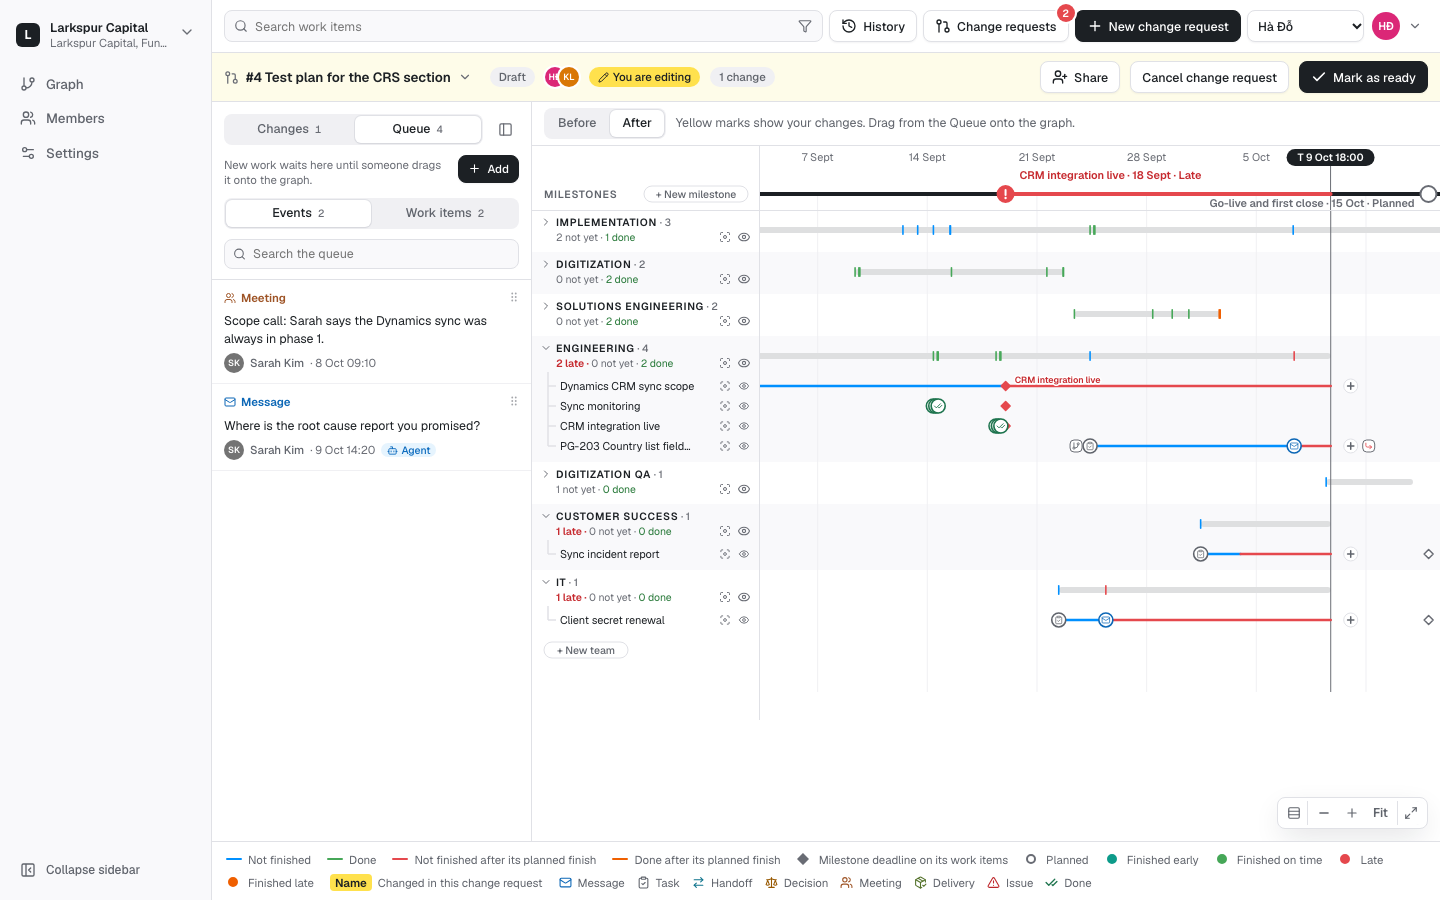
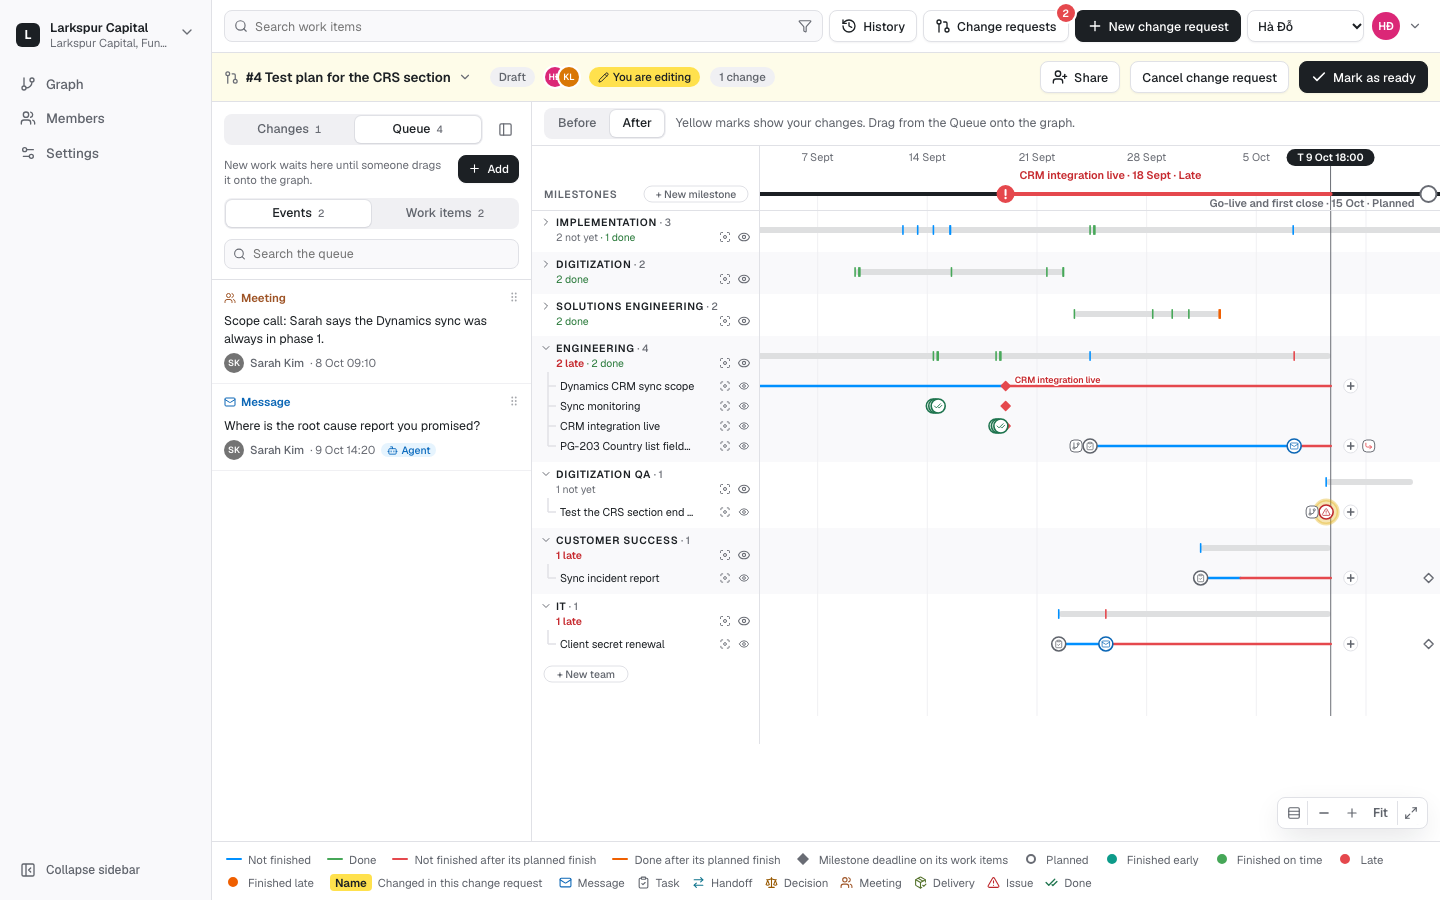
fix: docs and screenshots for the summary row counts, the change mark and the team opening rules

diff --git a/docs/design/design-system.html b/docs/design/design-system.html
@@ -1027,7 +1027,7 @@ Handed over to Digitization · received in PG-202 DealCloud mapping for CRS fiel
     ['Row lines', spec(260, 70, '<line class="seg" x1="10" x2="120" y1="16" y2="16" style="stroke:var(--route)"/><line class="seg" x1="120" x2="200" y1="16" y2="16" style="stroke:var(--danger)"/><line class="seg" x1="10" x2="150" y1="40" y2="40" style="stroke:var(--proceed)"/><line class="seg" x1="150" x2="200" y1="40" y2="40" style="stroke:var(--caution)"/><line class="wait-line" x1="10" x2="200" y1="62" y2="62"/><text class="wait-text" x="18" y="56">No events yet</text>'), 'Open blue, then red after the planned finish. Done green, then amber when late. A row with no events: a faint grey line.'],
     ['Events and stacks', spec(260, 50, evg('message', 30, 25, 'route') + evg('meeting', 90, 25, 'route', { n: 3 }) + evg('issue', 150, 25, 'danger', { changed: true }) + evg('done', 210, 25, 'proceed')), 'A radius-10 circle in the kind colour with the kind icon; the row line keeps the status colour. A stack shows up to 2 circles behind in an 18 % tint of the top kind. A changed event gets a yellow ring.'],
     ['Row height', spec(260, 92, (function () { var h = ''; [[14, 10, 13], [44, 7, 9], [70, 3, 0]].forEach(function (r) { h += '<line class="seg" x1="10" x2="240" y1="' + r[0] + '" y2="' + r[0] + '" style="stroke:var(--route);stroke-width:' + (r[1] > 5 ? (r[1] > 8 ? 3 : 2.5) : 2) + '"/>'; ['task', 'meeting', 'done'].forEach(function (k, i) { var x = 50 + i * 70, c = 'var(--k-' + k + ')'; h += r[2] ? '<g class="act" transform="translate(' + x + ' ' + r[0] + ')"><circle class="bg" r="' + r[1] + '" style="stroke:' + c + '"/><g style="color:' + c + '">' + inner(KIND[k], 0, 0, r[2]) + '</g></g>' : '<circle cx="' + x + '" cy="' + r[0] + '" r="3" style="fill:' + c + '"/>'; }); }); return h + '<text class="note" x="10" y="88">Comfortable 32 · Compact 20 · Dense 12</text>'; })()), 'Three row heights in the view menu. Compact is the default. At Dense an event is a dot in its kind colour.'],
-    ['Team summary row', spec(260, 44, '<rect x="0" y="0" width="260" height="40" style="fill:var(--sunk)"/><path d="M10 9 l4 4 l-4 4" style="fill:none;stroke:var(--ink-3);stroke-width:1.6;stroke-linecap:round;stroke-linejoin:round"/><text class="lane-name" x="22" y="16" style="fill:var(--ink)">ENGINEERING<tspan style="fill:var(--ink-3);letter-spacing:0"> · 4</tspan></text><text x="22" y="31" style="font-size:10.5px;fill:var(--ink-3)"><tspan style="fill:var(--danger-ink);font-weight:600">2 late</tspan> · 0 not yet · <tspan style="fill:var(--proceed-ink)">2 done</tspan></text><rect x="150" y="17" width="100" height="6" rx="3" style="fill:color-mix(in srgb, var(--ink-3) 22%, var(--panel))"/><rect x="170" y="15" width="1.6" height="10" style="fill:var(--proceed)"/><rect x="236" y="15" width="1.6" height="10" style="fill:var(--danger)"/>'), 'Chevron, name and count, late (only when not zero), not yet and done, a bar over the time of the shown work and a tick per event. A click, Enter or Space collapses or opens the team.'],
+    ['Team summary row', spec(260, 44, '<rect x="0" y="0" width="260" height="40" style="fill:var(--sunk)"/><path d="M10 9 l4 4 l-4 4" style="fill:none;stroke:var(--ink-3);stroke-width:1.6;stroke-linecap:round;stroke-linejoin:round"/><text class="lane-name" x="22" y="16" style="fill:var(--ink)">ENGINEERING<tspan style="fill:var(--ink-3);letter-spacing:0"> · 4</tspan></text><text x="22" y="31" style="font-size:10.5px;fill:var(--ink-3)"><tspan style="fill:var(--danger-ink);font-weight:600">2 late</tspan> · <tspan style="fill:var(--proceed-ink)">2 done</tspan></text><rect x="150" y="17" width="100" height="6" rx="3" style="fill:color-mix(in srgb, var(--ink-3) 22%, var(--panel))"/><rect x="170" y="15" width="1.6" height="10" style="fill:var(--proceed)"/><rect x="236" y="15" width="1.6" height="10" style="fill:var(--danger)"/>'), 'Chevron, name and count, the counts above zero of late, not yet and done, a bar over the time of the shown work and a tick per event. A click, Enter or Space collapses or opens the team. A collapsed team with a change gets the highlighter on its name.'],
     ['Milestone circles', spec(260, 40, '<g transform="translate(25 20)"><circle class="ms-c" r="8" style="stroke:var(--ink-3);fill:var(--panel)"/></g><g transform="translate(75 20)"><circle class="ms-c" r="8" style="stroke:var(--teal);fill:var(--teal)"/><path class="ms-i" d="M-3.5 0 l2.5 2.5 l4.5 -5"/></g><g transform="translate(125 20)"><circle class="ms-c" r="8" style="stroke:var(--proceed);fill:var(--proceed)"/><path class="ms-i" d="M-3.5 0 l2.5 2.5 l4.5 -5"/></g><g transform="translate(175 20)"><circle class="ms-c" r="8" style="stroke:var(--danger);fill:var(--danger)"/><path class="ms-i" d="M0 -4 V1"/><circle class="ms-dot" cy="4" r="1.2"/></g><g transform="translate(225 20)"><circle class="ms-c" r="8" style="stroke:var(--caution);fill:var(--caution)"/><path class="ms-i" d="M0 -4 V1"/><circle class="ms-dot" cy="4" r="1.2"/></g>'), 'Planned, Finished early, Finished on time, Late, Finished late. Radius 8; a tick or "!".'],
     ['Milestone line slips', spec(260, 50, '<line class="trunk" x1="10" x2="250" y1="14" y2="14"/><line class="trunk-seg" x1="60" x2="140" y1="14" y2="14" style="stroke:var(--danger)"/><line class="trunk" x1="10" x2="250" y1="38" y2="38"/><line class="trunk-seg" x1="90" x2="160" y1="38" y2="38" style="stroke:var(--teal)"/>'), 'A 4-unit ink line. Red from the date to today while late, amber to the finish when finished late, teal from the finish to the date when early.'],
     ['Deadline diamonds', spec(260, 40, (function () { out = []; diamond(30, 22, 'ink-3', false, false); diamond(80, 22, 'proceed', true, false); diamond(130, 22, 'danger', true, false); diamond(180, 22, 'route', true, true, ''); diamond(220, 22, 'caution', true, false); return out.join(''); })()), 'At noon of the milestone date on every member row. Planned is an outline. A moved date gets a yellow stroke.'],

diff --git a/docs/superpowers/specs/2026-10-16-event-tracker-design.md b/docs/superpowers/specs/2026-10-16-event-tracker-design.md
@@ -17,7 +17,7 @@ Promise Graph becomes an event tracker for a whole project. It shows what happen
    - Focus: each row has a focus button next to its eye. It shows only that work item and its descendants (children by parent and by "leads from", followed to the end), and every other row and every team without a shown row goes away. Each team head has the same button: a team focus shows the rows of that team and their descendants by the same rules (a team row that comes from another row of the team sits under it), and the Focus panel shows the team and its rows as a tree. The pressed focus button is a filled square in the `--focus` token, never a status colour. Hidden rows inside the focus stay hidden. While focused, a Focus panel on the right lists the parent of the focused item (a click focuses the parent instead) and the focused item with its descendants as a tree (a click scrolls to the row and flashes it, and shows it again when it is hidden). Focus on a hidden item shows it again. Leave focus in the panel, Esc, the focus button of the focused row (it is pressed while focused), or hiding the focused row or its team ends the focus, and so does a view where the item does not exist. A search pick or a details link to a row outside the focus ends the focus first. Focus is a view state only: it is not stored and does not change the hidden lists.
    - Handoff mark: a "leads from" link draws no line, inside one team or across teams. Each source row gets one mark for all the work items that lead from it. When the source has a visible Handoff event on the graph, the icon of its latest Handoff event (or of the stack that holds it) is the mark itself: one symbol, with no separate badge, and a small receiver count on its ring when there are several receivers. The source then counts as handed over. Without one, the mark sits after the finish, or after the T line while the source is open, and no other mark sits next to Done. Near the right edge the mark goes left of that point. The mark is a corner arrow that points up or down to the receivers, or a two-way arrow when they are on both sides, and it shows their count when there are several. A receiving item outside the window is not on the mark. Hover and keyboard focus show one line per receiver: "Handed over to <team> · received in <work item>" ("Hands over to <team> when done · …" while the source is open). With one receiver, a click, Enter or Space shows the receiving row again if it is hidden, outside the focus or filtered out, then zooms, scrolls to it and flashes it, as a search pick does. With several, the click opens a small list ("Handed over to", each receiver with its team); a pick does the same for that receiver, and Esc closes the list. On a Handoff icon, hover and focus also show the event line under the receivers. A stack that holds the Handoff event always opens the list, and the list ends with "Show the N events here", which opens the stack pop.
    - Row height (owner ruling 18 Oct, V1): the view menu at the left of the zoom bar (the rows icon, "Row height and teams") offers Comfortable (32-unit rows, as before), Compact (20, the default) and Dense (12). At a lower level the row label, event circles and icons, deadline diamonds, handoff marks, chips, the + button and the eye and focus buttons get smaller, so nothing overlaps or is cut; every target keeps a hit area of at least 12 units. At Dense an event is a filled dot in its kind colour with no icon (hover, focus and click work as before), a stack still shows its circles behind, the waiting text moves to a tooltip, the Handoff icon drops its receiver count (the tooltip and the list keep the receivers), and the milestone name sits on the row centre only where the row has no line. The milestone circles on the pinned milestone line keep their size, as that band does not change height. The app keeps the level per person in `localStorage` (`promise-graph:row-height:v1:<user>`); without storage the page starts at Compact.
-   - Collapsible teams (owner ruling 18 Oct, V3): the head of each team is a summary row: a chevron, the team name and its count of shown work items, "N late · N not yet · N done" (late only when not zero, in the danger ink; done in the proceed ink), and on the time line a quiet bar from the earliest start to the latest finish (or T or the planned finish while open) of those work items, with a small tick per event. The focus and eye buttons of the team stay on it. A click, Enter or Space on the summary row opens or collapses the team (`aria-expanded`). A collapsed team shows its summary row only, and its rows take no room. A team with a late work item starts open and the other teams start collapsed; the person's own toggle wins and stays per project in `localStorage` (`promise-graph:team-open:v1:<project>`). Expand all and Collapse all sit in the view menu. While search text, filters or a focus narrow the graph, every team with a shown row is open; a toggle made then lasts until the graph is whole again, and the stored toggles come back. Anything that targets a row inside a collapsed team opens that team first: a search pick, a handoff mark or its list, the links of the details panel (Parent, Leads from, Leads to), a member name in the milestone drawer, View in work item, the Focus panel, a branch chip and Unhide. A work item that a change request places, makes or moves into a team opens that team. A handoff mark keeps its receivers in a collapsed team and names their team; a branch chip says "(in <team>, collapsed)" for a source there.
+   - Collapsible teams (owner ruling 18 Oct, V3): the head of each team is a summary row: a chevron, the team name and its count of shown work items, "N late · N not yet · N done" (only the counts above zero, late in the danger ink and done in the proceed ink; nothing when all are zero), and on the time line a quiet bar from the earliest start to the latest finish (or T or the planned finish while open) of those work items, with a small tick per event. The focus and eye buttons of the team stay on it. A click, Enter or Space on the summary row opens or collapses the team (`aria-expanded`). A team with no shown work items has a plain summary row: no chevron, no button and no toggle. A collapsed team shows its summary row only, and its rows take no room. A team with a late work item starts open, and so does a team that holds a change of the change request on screen (a changed row, event or planned finish); the other teams start collapsed. A collapsed team that holds a change shows its name with the yellow highlighter of decision 8; the person's own toggle wins and stays per project in `localStorage` (`promise-graph:team-open:v1:<project>`). Expand all and Collapse all sit in the view menu. Esc closes the view menu wherever the focus is, and so does a press outside it. While search text, filters or a focus narrow the graph, every team with a shown row is open; a toggle made then lasts until the graph is whole again, and the stored toggles come back. Anything that targets a row inside a collapsed team opens that team first; on a narrowed graph that opening is temporary and stores nothing, while an action that also clears the narrowing (a search pick that clears the only filter, a link that clears the filters or ends the focus) stores it, so the row stays in sight: a search pick, a handoff mark or its list, the links of the details panel (Parent, Leads from, Leads to), a member name in the milestone drawer, View in work item, the Focus panel, a branch chip and Unhide. Every change that targets a work item opens its team: placing, making or moving a work item into a team, adding or attaching an event to it, moving an event to it, and the field changes of the details panel. A handoff mark keeps its receivers in a collapsed team and names their team; a branch chip says "(in <team>, collapsed)" for a source there.
    - Filters: the search box has a filter control with Status (the 5 statuses), Team, Milestone (and "No milestone") and Person (done by or requested by). Values of one kind combine with "or", kinds combine with "and". The typed search text also filters the rows with the same matcher as the result list (title, team and people, case and Vietnamese marks ignored), so the graph and the list show the same hits. A matching row keeps its parents, up to the top, as dimmed context; a team without a shown row goes away, and so does an empty team. Filters combine with hiding and the focus, add no chip for a filtered-out source, and are a view state only (not stored). A chosen team, milestone or person that the current view does not have (for example a team that exists only in a change request, after a switch to Main) does not filter and does not count. The control shows the count of chosen values, the panel shows "N of M work items match" and Clear filters. A search pick clears the typed text; a pick, a handoff mark or a details link to a row that the filters leave out clears the filters.
 4. Queue: events and work items wait in a project Queue until someone drags them onto the graph. People add them with Add; agents add them through MCP. No email or Slack sync.
 5. Drag and drop changes the graph only in a draft change request that the acting member edits. A Queue work item onto a team places it (onto a milestone circle sets its milestone while it waits); a Queue event onto a work item attaches it; a Queue event onto a team opens "New work item" from it; an event up or down moves it to another work item; anything onto the bin hides it (events) or removes it from the Queue (Queue cards). The bin shows only while something is dragged. A work item name onto a milestone circle adds it to that milestone. Every drop has a click alternative (pops and modals). Events sit at their real time in every view (owner ruling 17 Oct, round 7): there is no drag inside the day and no Reset position, and a read-only view starts no drag at all. Events closer than 16 units stack as before, the earlier ones under the later top event. The table `tracker_event_offsets` stays in the database with its old rows, but no route, payload field or screen uses it (round 7 review).

diff --git a/docs/design-system.md b/docs/design-system.md
@@ -269,7 +269,7 @@ Geometry in view-box units (`GEOMETRY` in `src/tracker/layout.ts`): width 1060, 
 
 | Mark | Drawing |
 |---|---|
-| Team summary row | Alternate lanes get a `--sunk` band. The first row of each lane is a button (`aria-expanded`): a chevron (right when collapsed), the team name in 10.5px weight 600 upper case `--ink` with " · N" items in `--ink-3`, and under it "N late · N not yet · N done" in 10.5px `--ink-3`, the late part in `--danger-ink` weight 600 (only when not zero) and the done part in `--proceed-ink`. The focus and eye buttons sit right on that second line. On the time line: a 6-unit bar (a 22 % `--ink-3` tint, radius 3) from the earliest start to the latest finish, or to T or the planned finish while open, and a 1.6 × 10 tick in the status tone for each event. Hover: `--hover`. A collapsed team shows this row only. A neutral `--rule` guide joins the rows of an open team in the label column. |
+| Team summary row | Alternate lanes get a `--sunk` band. The first row of each lane is a button (`aria-expanded`): a chevron (right when collapsed), the team name in 10.5px weight 600 upper case `--ink` with " · N" items in `--ink-3`, and under it the counts above zero of "N late · N not yet · N done" in 10.5px `--ink-3`, the late part in `--danger-ink` weight 600 and the done part in `--proceed-ink` (no second line when all are zero). A collapsed team that holds a change gets the yellow highlighter on its name, as a changed row label does. A team with no shown work items has no chevron and is not a button. The focus and eye buttons sit right on that second line. On the time line: a 6-unit bar (a 22 % `--ink-3` tint, radius 3) from the earliest start to the latest finish, or to T or the planned finish while open, and a 1.6 × 10 tick in the status tone for each event. Hover: `--hover`. A collapsed team shows this row only. A neutral `--rule` guide joins the rows of an open team in the label column. |
 | Row height | Comfortable / Compact / Dense (`ROW_LEVELS`): row 32 / 20 / 12, label 12 / 11 / 9.5px, event radius 10 / 7 / 3 with a 13 / 9 / no icon, line 3 / 2.5 / 2, diamond half 6 / 4.5 / 3.5, handoff box 14 / 12 / 10, chip 14 / 12 / 10, eye and focus buttons 18 / 16 / 12, + radius 9 / 7 / 5, milestone name 9.5 / 9 / 8px, stack distance 16 / 12 / 7 units. At Dense an event is a filled dot in its kind colour, the waiting text moves to the tooltip, the receiver count leaves the Handoff icon, and the milestone name sits on the row centre only where the row has no line. Every target keeps a hit area of at least 12 units. The view menu (rows icon) at the left of the zoom bar holds Row height (a segmented control) and Expand all / Collapse all. |
 | Row label | 12px `--ink`, indented 12 units per level. A changed name gets the yellow highlighter. A row in the picked milestone is weight 600. A filter context row shows at 50 % opacity. |
 | Row line | 3 units, round caps. `--route` while open, `--proceed` when done. The part after the row's own Planned finish is `--danger` while open and `--caution` when done. A row with no events shows a `--ink-3` line at 45 % opacity and an italic "Waiting for ..." or "No events yet". |
